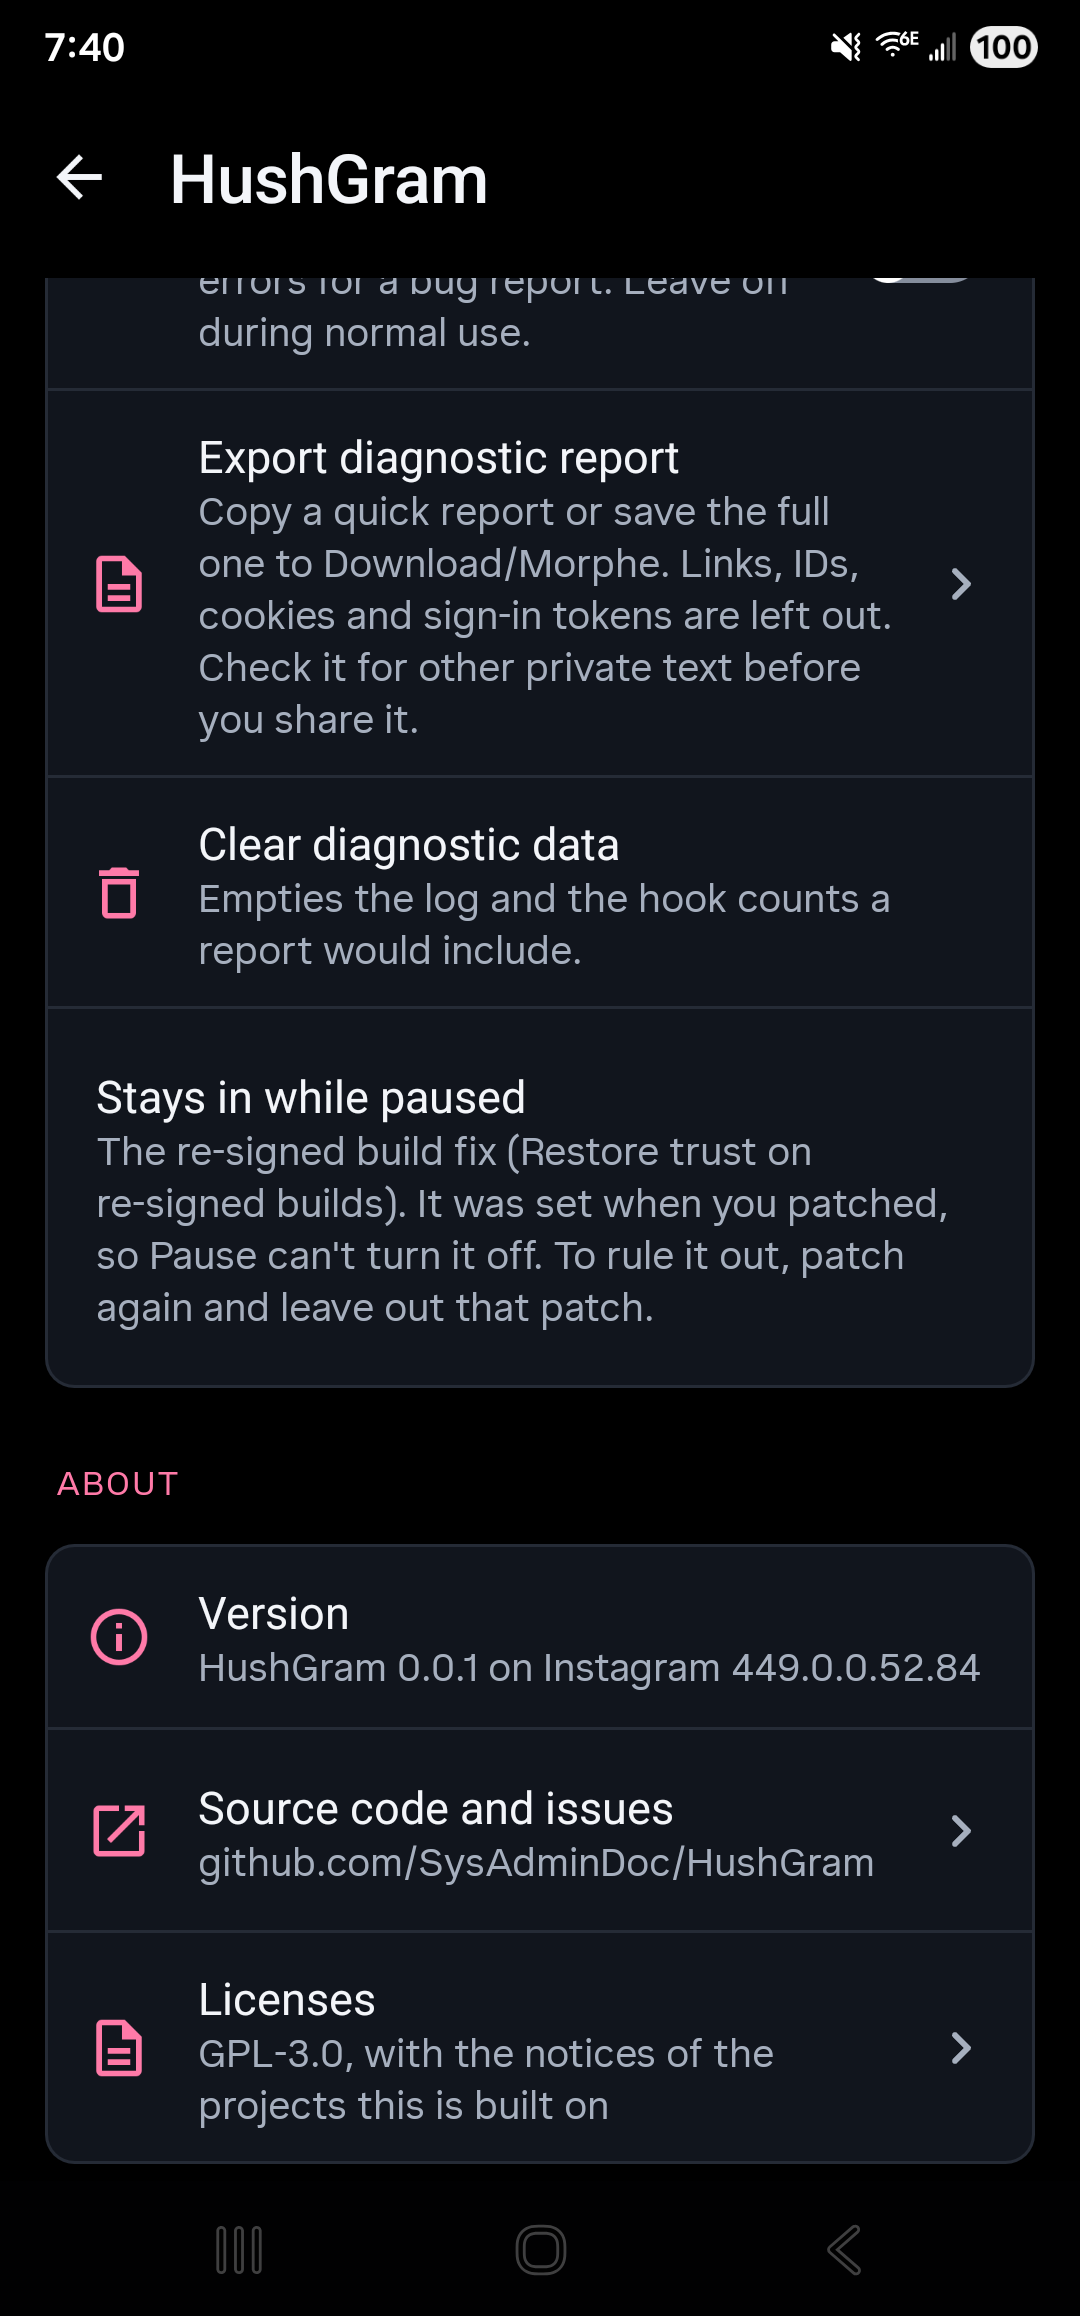
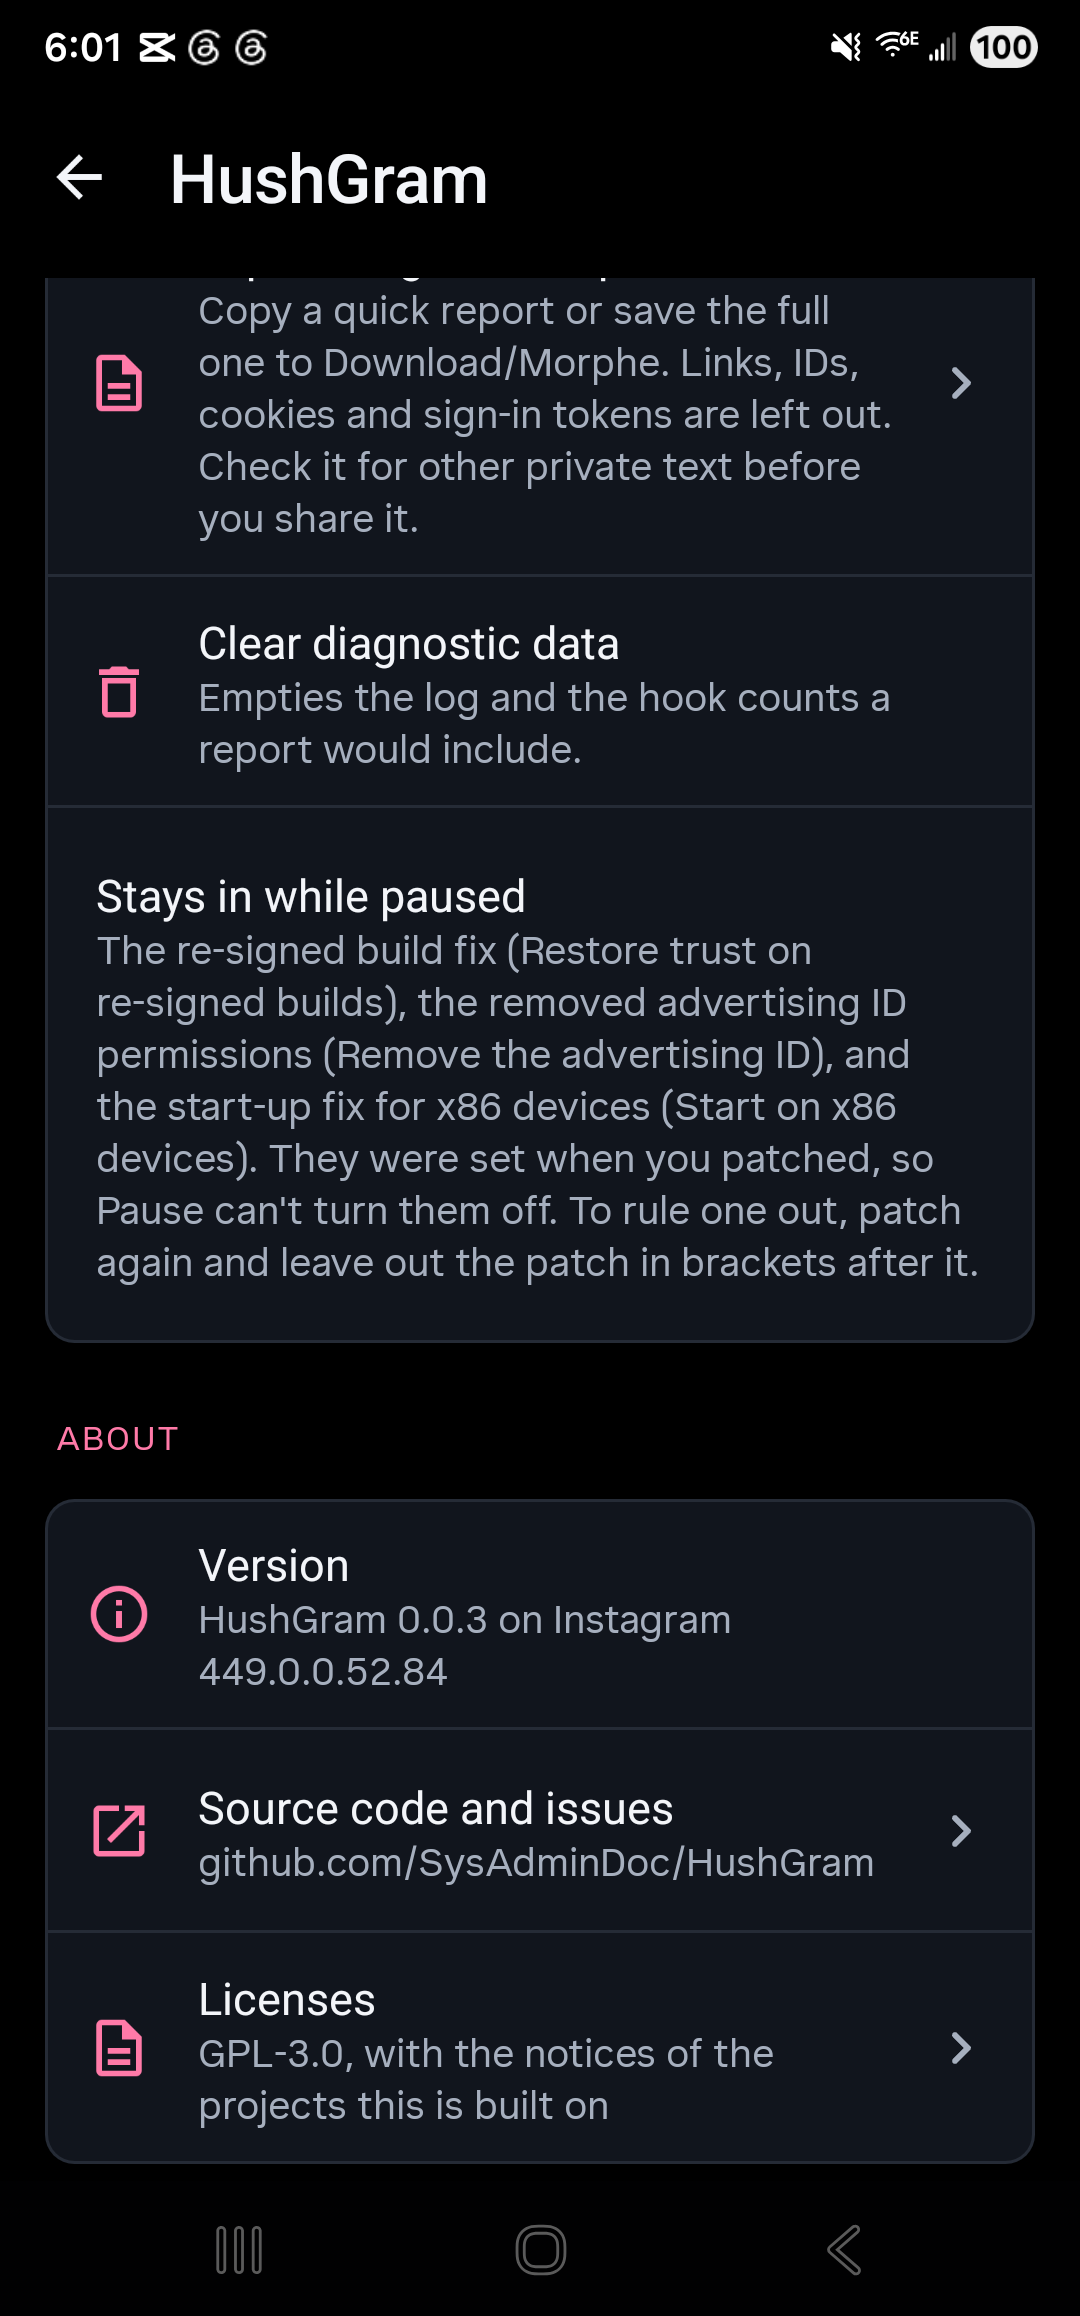
chore: align settings captures with the published bundle
Show the distributed v0.0.3 controls and version with the actual selected patches. Identify source-only controls and the verified build tools so the images and instructions describe the same release.

diff --git a/README.md b/README.md
@@ -112,9 +112,12 @@ The other patches keep their switches in `HushGram settings`, so Morphe Manager 
 Long-press Instagram's icon on your home screen and tap **HushGram settings**. Or, inside Instagram, open **Settings and activity** from the menu on your profile and tap **HushGram settings** at the top. The screen opens over Instagram, and the shortcut works before you sign in too.
 
 <p>
-  <img src="assets/settings-switches.png" alt="HushGram settings: the on card and the Ads and privacy switches" width="270">
-  <img src="assets/settings-pause-and-diagnostics.png" alt="HushGram settings: Set when you patched, Pause and Debug logging" width="270">
+  <img src="assets/settings-switches.png" alt="Published HushGram v0.0.3 settings, showing the on status and Ads and privacy controls" width="270">
+  <img src="assets/settings-pause-and-diagnostics.png" alt="Published HushGram v0.0.3 settings, showing Pause, Debug mode and diagnostic report controls" width="270">
+  <img src="assets/settings-about.png" alt="Published HushGram v0.0.3 About section on Instagram 449.0.0.52.84" width="270">
 </p>
+
+Captured on 2026-10-02 from the published v0.0.3 bundle with 33 of its 35 patches selected. Open developer options and Pure black dark mode were left out. The controls you see depend on the patches you select.
 
 Unreleased source builds also have **Search settings**. Search by a control's label or description in your phone's language, or by its English patch name. Contacts and location setup lead to Disable analytics. Following and Reels find their installed controls. Pause, diagnostics and any running save's Cancel stay available while searching. Clear the search to return to the same sections and choices. Search works offline. The query clears when settings closes or Android rebuilds the page, and it never becomes stored history.
 
@@ -133,10 +136,12 @@ At the top, a card says whether HushGram is on or paused. Below it:
 - **Layout** holds the switch for Remove the empty space at the bottom.
 - **Downloads** holds the switches for Download feed videos and Download feed photos, lists each save that's running, with a Cancel button, and holds what every save uses: Save videos other apps can open, Download quality, the save folder and the video file name. Videos go to Movies and photos to Pictures, each in an Instagram folder unless you name another, and a video is named `IG_VID_` with the date and time unless you set a name.
 - **Updates** holds the switch for the build expired screen.
-- **Developer** holds the Home long-press switch and Open MetaConfig overrides. The direct row opens Instagram's native flag editor without enabling the switch or changing any flag. It requires a signed-in Home or settings activity. An unavailable screen leaves HushGram settings open with an explanation.
+- **Developer** holds the Home long-press switch for Open developer options.
 - **Set when you patched** lists what was fixed at patch time and can't be switched off here, such as the re-signed build fix, the removed advertising ID and the pure black dark mode.
 - **Pause and diagnostics** has the Pause switch, Debug logging, and the diagnostic report. Copy a quick report, or save the full one to Download/Morphe (on Android 9, a Download/Morphe folder inside Instagram's own folder, and the message says where). Links, IDs, cookies and sign-in tokens are left out, but read it over for other private text before you share it.
 - **About** shows the version and the licenses, with a link to this page.
+
+Unreleased source builds add **Open MetaConfig overrides** to Developer. It opens Instagram's native flag editor without enabling Home long press or changing a flag. It requires a signed-in Home or settings activity. An unavailable screen leaves HushGram settings open with an explanation.
 
 The diagnostic report also shows patch-time target coverage for Disable analytics, Sanitize sharing links and Start on x86 devices. Each shows matched/expected counts and fixed labels for missing targets. These describe the code the patch found, not which live requests Instagram sends.
 
@@ -244,6 +249,8 @@ Every source file says where it came from in its header, and [provenance.json](p
 ## Building from source
 
 You need JDK 17 or newer and the Android SDK. The Morphe patcher comes from GitHub Packages, so you also need a GitHub token with `read:packages`.
+
+The v0.0.3 release uses Gradle 9.8.0, Android Gradle Plugin 9.1.0 and Kotlin 2.4.20. It was verified with Morphe Manager 1.32.0 and Desktop CLI 1.17.0, both using patcher 1.14.1.
 
 ```bash
 export GITHUB_ACTOR=<your GitHub user>

diff --git a/CHANGELOG.md b/CHANGELOG.md
@@ -4,6 +4,7 @@ Every HushGram release, newest first.
 
 ## Unreleased
 
+* **Tooling:** Refresh the settings, diagnostics and About captures from the published v0.0.3 bundle. Document their actual patch selection and verified build tools, and label source-only controls as unreleased.
 * **Instagram:** Add an optional Copy action to the common comment menu, with an off-by-default Comments switch. An explicit tap copies the original text, including literal markup and line breaks, and uses Instagram's own menu dismissal.
 
 * **Instagram:** Default playback quality is included in Manager's simple mode. Its initial Auto choice leaves playback unchanged; patches that change behavior immediately remain opt-in.
